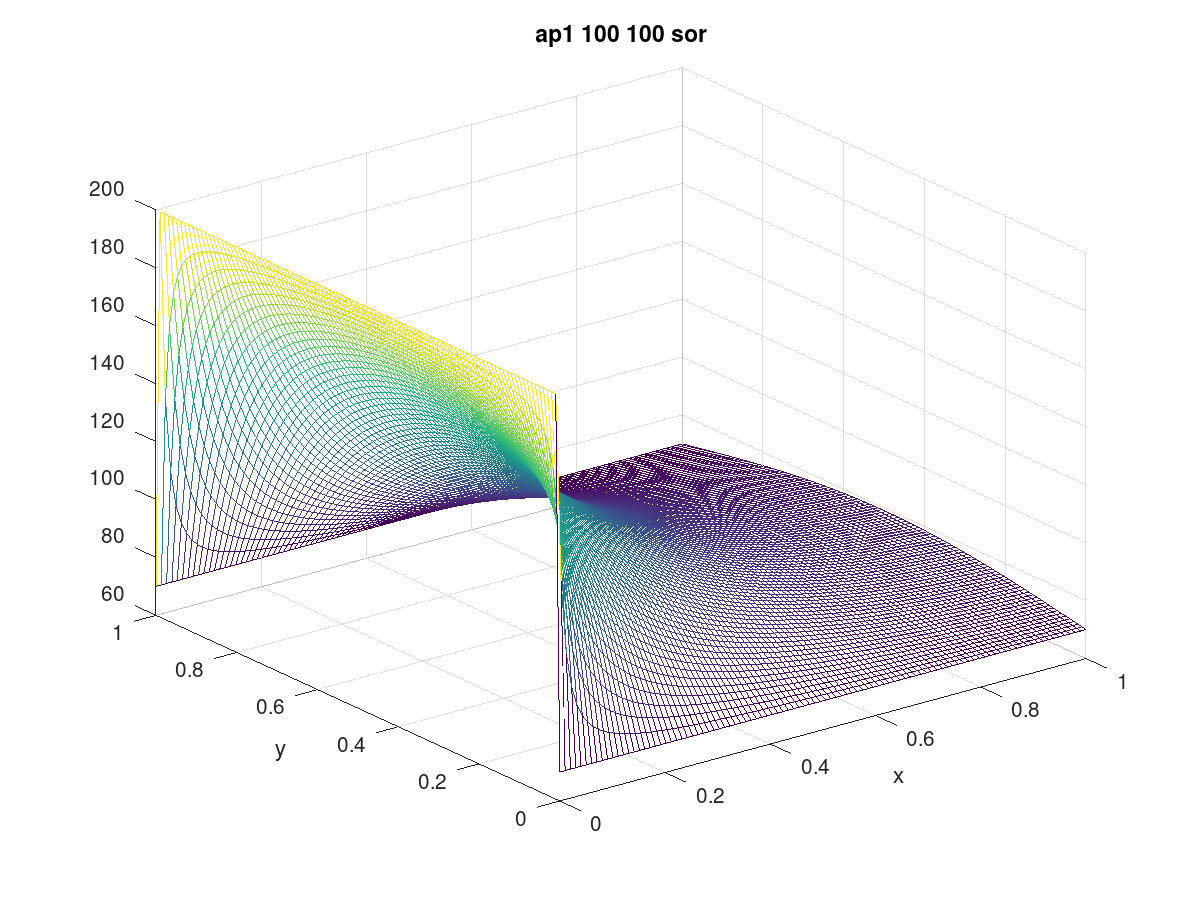
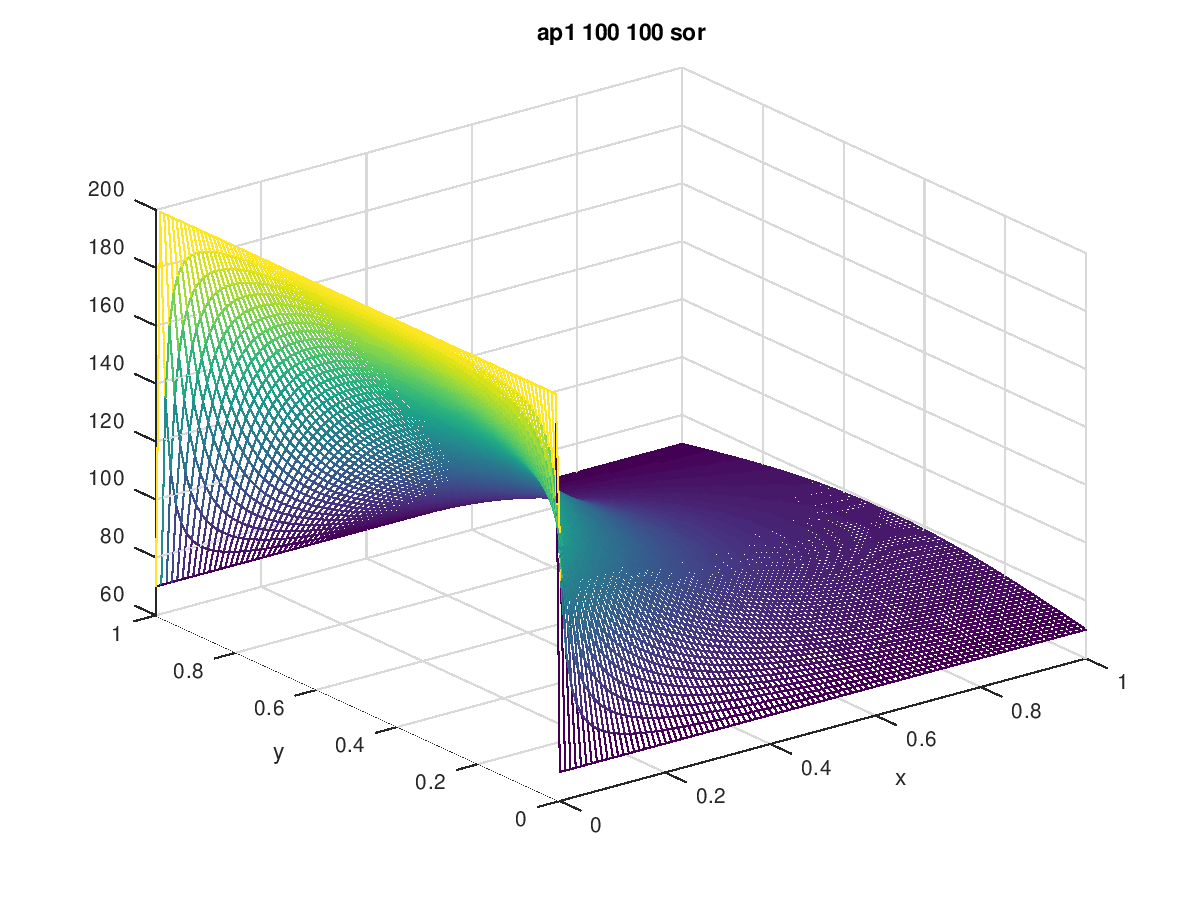
gráficos SOR

diff --git a/exe6/plota.m b/exe6/plota.m
@@ -1,4 +1,5 @@
 #!/usr/bin/octave
+graphics_toolkit fltk;
 % graphics_toolkit gnuplot;
 
 args = argv();
